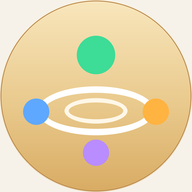
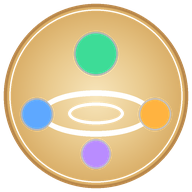
Add files via upload

diff --git a/index.html b/index.html
@@ -251,18 +251,21 @@ a{color:var(--link)}
 .brand{display:flex;align-items:center;gap:11px;min-width:0;flex:0 1 auto;overflow:hidden}
 /* Kol 121 · logo sayfanın ilk dikkat çeken öğesi: 44 px, kendi renkleriyle madalyon.
    Ölçüldü: masaüstünde ~%75, telefonda ~%60 sayfa 44 px'lik dairede duruyor. */
-.logo{flex:0 0 auto;width:44px;height:44px;border-radius:50%;
-  box-shadow:0 4px 14px -4px rgba(120,80,25,.55), 0 0 0 1px rgba(var(--w),.10),
-             0 0 0 5px rgba(var(--accrgb),.10);
+/* Kol 124 · kullanıcı: "logo anlaşılmıyor, boyutu daha da artır".
+   44 px'de madalyonun içindeki masa + 4 sandalye seçilmiyordu; 56 px'de seçiliyor.
+   Koyu plaka üstünde pirinç madalyon yüksek kontrast veriyor. */
+.logo{flex:0 0 auto;width:60px;height:60px;border-radius:50%;
+  box-shadow:0 6px 18px -5px rgba(0,0,0,.6), 0 0 0 1.5px rgba(255,246,226,.55),
+             0 0 0 6px rgba(232,196,124,.16);
   transition:box-shadow .25s,transform .25s}
 .brand:hover .logo{transform:rotate(-4deg) scale(1.03);
-  box-shadow:0 7px 20px -5px rgba(120,80,25,.62), 0 0 0 1px rgba(var(--w),.12),
-             0 0 0 7px rgba(var(--accrgb),.14)}
+  box-shadow:0 9px 24px -6px rgba(0,0,0,.7), 0 0 0 1.5px rgba(255,246,226,.75),
+             0 0 0 8px rgba(232,196,124,.22)}
 .brandtext{display:flex;flex-direction:column;line-height:1.05;min-width:0}
 /* marka artık karışık harf (DivanAI): büyük harf için konmuş geniş harf aralığı
    seyrek duruyor, normale yakın tutuldu */
-.brandtext b{font-size:22px;letter-spacing:-.01em;font-weight:750;white-space:nowrap;overflow:hidden;text-overflow:ellipsis;display:block}
-.brandtext span{font-size:11.5px;color:var(--dim);letter-spacing:.02em;white-space:nowrap;overflow:hidden;text-overflow:ellipsis}
+.brandtext b{font-size:30px;letter-spacing:-.015em;font-weight:800;white-space:nowrap;overflow:hidden;text-overflow:ellipsis;display:block}
+.brandtext span{font-size:12px;color:var(--dim);letter-spacing:.02em;white-space:nowrap;overflow:hidden;text-overflow:ellipsis}
 /* orta rozet alanı: daralınca kırpılır, markanın üstüne binmez */
 .topmid{flex:1;display:flex;justify-content:center;min-width:0;overflow:hidden}
 .topactions{display:flex;align-items:center;gap:8px}
@@ -1062,8 +1065,8 @@ select optgroup{background:var(--panelSolid);color:var(--muted)}
   .langPick{padding:2px;gap:2px}
   .langBtn{width:26px;height:21px}
   .langBtn svg{width:19px;height:13px}
-  .brand{gap:8px}
-  .brandtext b{font-size:18px}
+  .brand{gap:9px}
+  .brandtext b{font-size:23px}
 }
 /* Kol 118b/c · MOBİL: üst şerit iki satır, İKİSİ DE ORTALI.
    Satır 1: logo plakası (ad + slogan) — tam ortada
@@ -1077,9 +1080,9 @@ select optgroup{background:var(--panelSolid);color:var(--muted)}
   #settingsBtn{order:4;margin-left:0}
   .topmid{display:none}
   .brandtext span{display:block;font-size:10px;letter-spacing:.01em}
-  .brand{padding:5px 13px 5px 8px;gap:9px}
-  .brand .logo{width:40px;height:40px}
-  .brandtext b{font-size:19px}
+  .brand{padding:6px 15px 6px 8px;gap:10px}
+  .brand .logo{width:52px;height:52px}
+  .brandtext b{font-size:25px}
 }
 @media (max-width:400px){
   /* dar telefon: Ayarlar yalnız simge (adı çekmecede zaten var) */
@@ -1087,7 +1090,8 @@ select optgroup{background:var(--panelSolid);color:var(--muted)}
   #settingsBtn{padding:8px 10px}
   .topactions{gap:4px}
   .topactions .btn.ghost{padding:7px 6px}
-  .brandtext b{font-size:17px}
+  /* Kol 124: 390 px'te de logo küçültülmüyor; ölçüldü → taşma yok (üst şerit tek satır plaka) */
+  .brand{padding:6px 13px 6px 7px;gap:9px}
 }
 /* 360 px altı: ad ve slogan KALIR (Kol 118b — üst şerit iki satır olduğu için sığıyor);
    yalnız orta rozet gizlenir. Marka metni hiçbir genişlikte gizlenmez. */
@@ -1328,34 +1332,35 @@ select optgroup{background:var(--panelSolid);color:var(--muted)}
 .brand:active{transform:translateY(0)}
 .brand:focus-visible{outline:2px solid rgba(var(--accrgb),.8);outline-offset:3px}
 
-/* GÜNDÜZ: krem-pirinç plaka — sayfa kâğıt, plaka hafif ısınmış */
+/* GÜNDÜZ: KOYU plaka (Kol 124 · kullanıcı isteği: "yazının arka planı koyu olsun, dikkat çeksin")
+   Kâğıt sayfada tek koyu öğe marka olur; göz ilk ona gider. Pirinç madalyon koyu üstünde okunur. */
 :root[data-palette="paper"] .brand{
   background:
-    radial-gradient(120% 160% at 8% 0%,#fffdf8,transparent 62%),
-    linear-gradient(180deg,#fbf3e2,#f2e4c9);
-  border-color:rgba(138,90,43,.52);
+    radial-gradient(120% 160% at 10% 0%,rgba(245,199,106,.16),transparent 58%),
+    linear-gradient(180deg,#232935,#12151b);
+  border-color:rgba(214,170,96,.55);
   box-shadow:
-    inset 0 1px 0 #fff,
-    inset 0 -1px 0 rgba(138,90,43,.10),
-    0 10px 22px -14px rgba(96,66,30,.55);
+    inset 0 1px 0 rgba(255,240,210,.16),
+    inset 0 -1px 0 rgba(0,0,0,.5),
+    0 12px 26px -16px rgba(20,14,6,.8);
 }
-:root[data-palette="paper"] .brand::after{border-color:rgba(138,90,43,.20)}
-:root[data-palette="paper"] .brand::before{opacity:.85}
+:root[data-palette="paper"] .brand::after{border-color:rgba(240,214,160,.16)}
+:root[data-palette="paper"] .brand::before{opacity:.9}
 :root[data-palette="paper"] .brand:hover{
-  border-color:rgba(138,90,43,.72);
+  border-color:rgba(240,206,140,.8);
   box-shadow:
-    inset 0 1px 0 #fff,
-    inset 0 -1px 0 rgba(138,90,43,.12),
-    0 16px 28px -14px rgba(96,66,30,.62);
+    inset 0 1px 0 rgba(255,240,210,.22),
+    inset 0 -1px 0 rgba(0,0,0,.5),
+    0 18px 32px -16px rgba(20,14,6,.85);
 }
-:root[data-palette="paper"] .brandtext span{color:#8a6a45}
-:root[data-palette="paper"] .brandtext b{color:#241d14}
+:root[data-palette="paper"] .brandtext span{color:#d9b978}
+:root[data-palette="paper"] .brandtext b{color:#fdf6e6}
 /* GECE: koyu plaka + kehribar kenar */
 :root[data-palette="night"] .brand{
   background:
-    radial-gradient(120% 160% at 10% 0%,rgba(245,199,106,.10),transparent 60%),
-    linear-gradient(180deg,#171a21,#0f1116);
-  border-color:rgba(245,199,106,.38);
+    radial-gradient(120% 160% at 10% 0%,rgba(245,199,106,.16),transparent 60%),
+    linear-gradient(180deg,#262c37,#141821);
+  border-color:rgba(214,170,96,.52);
   box-shadow:inset 0 1px 0 rgba(var(--w),.07), 0 14px 30px -20px #000;
 }
 :root[data-palette="night"] .brand:hover{border-color:rgba(245,199,106,.62)}
@@ -1514,15 +1519,17 @@ body,.topbar,.dock,.drawer,.composer,.modeBtn,.btn,.pill,.topicCard{
 
   <header class="topbar">
     <button class="brand" id="brandHome" type="button" title="Ana ekran" aria-label="Ana ekran">
-      <svg class="logo" width="44" height="44" viewBox="0 0 44 44" fill="none" aria-hidden="true">
+      <svg class="logo" width="60" height="60" viewBox="0 0 44 44" fill="none" aria-hidden="true">
+        <!-- Kol 124: madalyonun içi anlaşılmıyordu (masa çizgisi .55 opaklıkta, sandalyeler küçük).
+             Masa çizgisi kalın ve dolu, sandalyeler büyütüldü; 60 px'de masa + 4 sandalye seçiliyor. -->
         <circle cx="22" cy="22" r="21" fill="url(#logoBg)"/>
-        <circle cx="22" cy="22" r="21" stroke="url(#logoEdge)" stroke-width="1.6"/>
-        <ellipse cx="22" cy="25.4" rx="13.4" ry="5.6" fill="none" stroke="#ffffff" stroke-opacity=".55" stroke-width="1.5"/>
-        <ellipse cx="22" cy="25.4" rx="7.2" ry="2.9" fill="none" stroke="#ffffff" stroke-opacity=".26" stroke-width="1"/>
-        <circle cx="22" cy="12.6" r="4.4" fill="#3ddc97"/>
-        <circle cx="8.3" cy="25.6" r="3" fill="#5ea8ff"/>
-        <circle cx="35.7" cy="25.6" r="3" fill="#ffb340"/>
-        <circle cx="22" cy="35" r="3" fill="#b98cff"/>
+        <circle cx="22" cy="22" r="20.1" stroke="url(#logoEdge)" stroke-width="1.8"/>
+        <ellipse cx="22" cy="26" rx="13" ry="5.3" fill="none" stroke="#ffffff" stroke-opacity=".95" stroke-width="2.3"/>
+        <ellipse cx="22" cy="26" rx="6.4" ry="2.5" fill="none" stroke="#ffffff" stroke-opacity=".55" stroke-width="1.3"/>
+        <circle cx="22" cy="12.3" r="5" fill="#3ddc97" stroke="#0f3a29" stroke-opacity=".30" stroke-width="1"/>
+        <circle cx="8.5" cy="26.2" r="3.7" fill="#5ea8ff" stroke="#0e2f52" stroke-opacity=".30" stroke-width="1"/>
+        <circle cx="35.5" cy="26.2" r="3.7" fill="#ffb340" stroke="#553607" stroke-opacity=".28" stroke-width="1"/>
+        <circle cx="22" cy="35.3" r="3.4" fill="#b98cff" stroke="#3a2160" stroke-opacity=".28" stroke-width="1"/>
         <defs>
           <linearGradient id="logoBg" x1="6" y1="2" x2="38" y2="44" gradientUnits="userSpaceOnUse">
             <stop stop-color="#f8e6bc"/>

diff --git a/README.en.md b/README.en.md
@@ -540,18 +540,20 @@ Toggle with the **single icon** in the top bar: a moon in day mode, a sun in nig
 shows where you are going). The choice is stored in the browser; the first visit is **day**.
 The `G` key toggles too (not while typing). The settings drawer also has a `☀ Day / ☾ Night` row.
 
-The brand is now a **plaque** that stands apart from the page: cream-brass surface, double frame, a
-thin brass rule on top. **Clicking it takes you home**; if the table has a conversation it asks first,
+The brand is now a **plaque** that stands apart from the page: a **dark navy-black surface** (with a
+soft amber glow at the top), brass frame and an inner hairline. On a paper-coloured page the brand is
+the only dark object, so the eye lands on it first. **Clicking it takes you home**; if the table has a conversation it asks first,
 and while a round is running it does nothing (press “Stop”). It works by keyboard too — the plaque is
 a button: `Tab` to focus, `Enter` to press.
 
-The **logo** is now the **first thing that catches the eye**: a 44 px (40 px on phones) round
-**brass medallion** with four coloured seats (green · blue · orange · purple), an amber ring and a
-soft shadow. The brand name grew to 22 px. The tab icon and the phone icon use the same medallion.
+The **logo** is the **first thing that catches the eye**: a **60 px** (52 px on phones) round
+**brass medallion** with four coloured seats (green · blue · orange · purple), a brass ring and a soft
+shadow. The table line is white and thick, so the medallion stays legible at 60 px. The brand name is
+**30 px** (25 px on phones). The tab icon and the phone icon use the same medallion and proportions.
 
 | Plaque · day | Plaque · night | Phone |
 |---|---|---|
-| ![Plaque day](ekranlar/121-logo-gunduz.jpg) | ![Plaque night](ekranlar/121-logo-gece.jpg) | ![Mobile](ekranlar/121-logo-mobil.jpg) |
+| ![Plaque day](ekranlar/124-marka-gunduz.jpg) | ![Plaque night](ekranlar/124-marka-gece.jpg) | ![Mobile](ekranlar/124-marka-mobil.jpg) |
 
 **On the phone the top bar is two rows, both centred:**
 

diff --git a/README.md b/README.md
@@ -541,17 +541,19 @@ kurtarılamaz** — başka yerde bir kopyası olsun. Kaldırmak tek düğme.
 modu gösterir). Seçim tarayıcıda saklanır; ilk açılış **gündüzdür**. `G` tuşu da değiştirir
 (yazı kutusunda çalışmaz). Ayarlar çekmecesinde de `☀ Gündüz / ☾ Gece` satırı vardır.
 
-Marka artık sayfadan ayrı duran bir **plaka**: krem-pirinç zemin, çift çerçeve, üstte ince pirinç çizgi.
+Marka artık sayfadan ayrı duran bir **plaka**: **koyu lacivert-siyah zemin** (üstte hafif kehribar ışık),
+pirinç çerçeve, içte ince çizgi. Kâğıt sayfada tek koyu öğe marka olduğu için göz ilk ona gidiyor.
 Plakaya **tıklayınca ana ekrana dönersin**; masada konuşma varsa önce sorar, konuşma sürerken hiç
 dokunmaz (önce “Durdur”). Klavyeyle de çalışır: plaka bir düğmedir, `Tab` ile odaklanıp `Enter` ile basılır.
 
-**Logo** artık sayfanın **ilk dikkat çeken öğesi**: 44 px (telefonda 40 px) yuvarlak **pirinç
-madalyon**, dört renkli sandalye (yeşil · mavi · turuncu · mor), kehribar halka ve yumuşak gölge.
-Marka adı 22 px'e çıktı. Sekme simgesi ve telefon simgesi de aynı madalyon.
+**Logo** sayfanın **ilk dikkat çeken öğesi**: **60 px** (telefonda 52 px) yuvarlak **pirinç
+madalyon**, dört renkli sandalye (yeşil · mavi · turuncu · mor), pirinç halka ve yumuşak gölge.
+Masa çizgisi beyaz ve kalın: madalyon 60 px'de de seçiliyor. Marka adı **30 px** (telefonda 25 px).
+Sekme simgesi ve telefon simgesi de aynı madalyon, aynı oranlarla.
 
 | Plaka · gündüz | Plaka · gece | Telefon |
 |---|---|---|
-| ![Plaka gündüz](ekranlar/121-logo-gunduz.jpg) | ![Plaka gece](ekranlar/121-logo-gece.jpg) | ![Mobil](ekranlar/121-logo-mobil.jpg) |
+| ![Plaka gündüz](ekranlar/124-marka-gunduz.jpg) | ![Plaka gece](ekranlar/124-marka-gece.jpg) | ![Mobil](ekranlar/124-marka-mobil.jpg) |
 
 **Telefonda üst şerit iki satır, ikisi de ortalanmış:**
 
